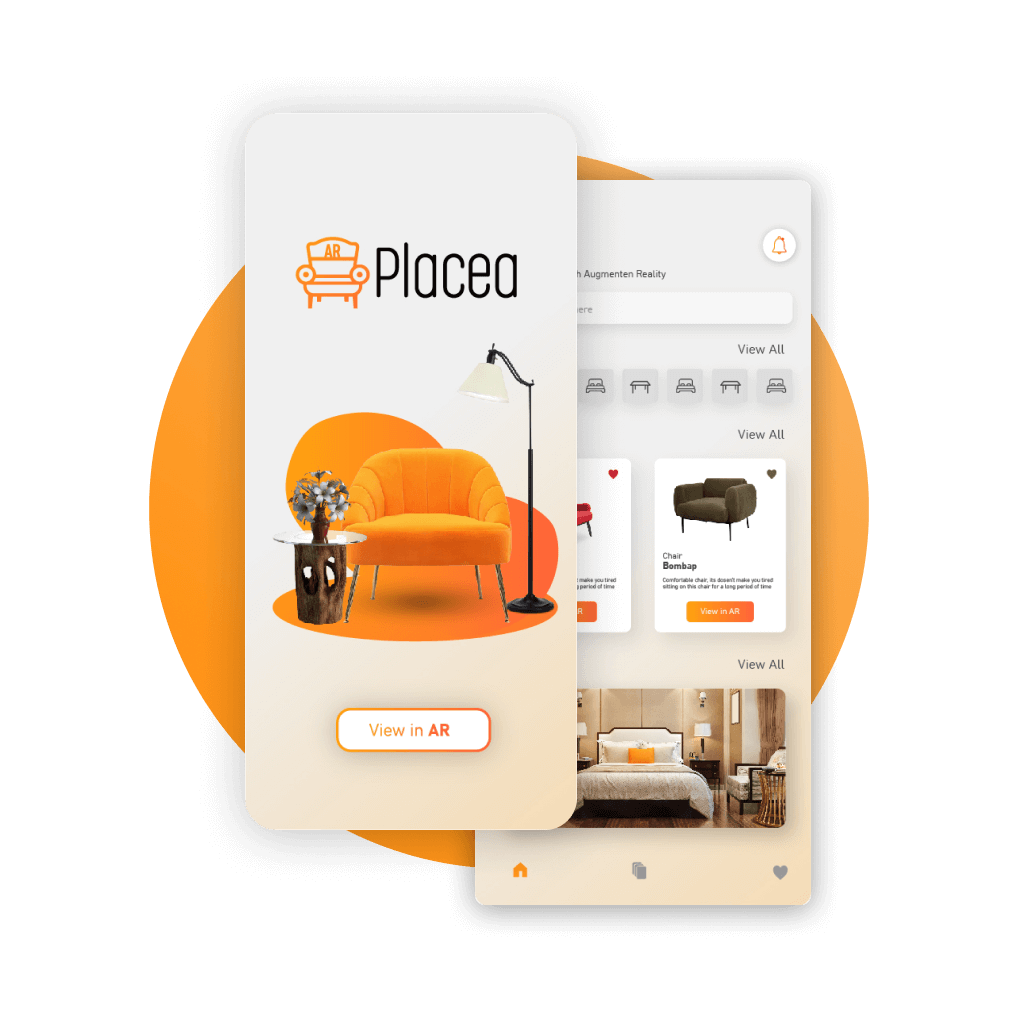
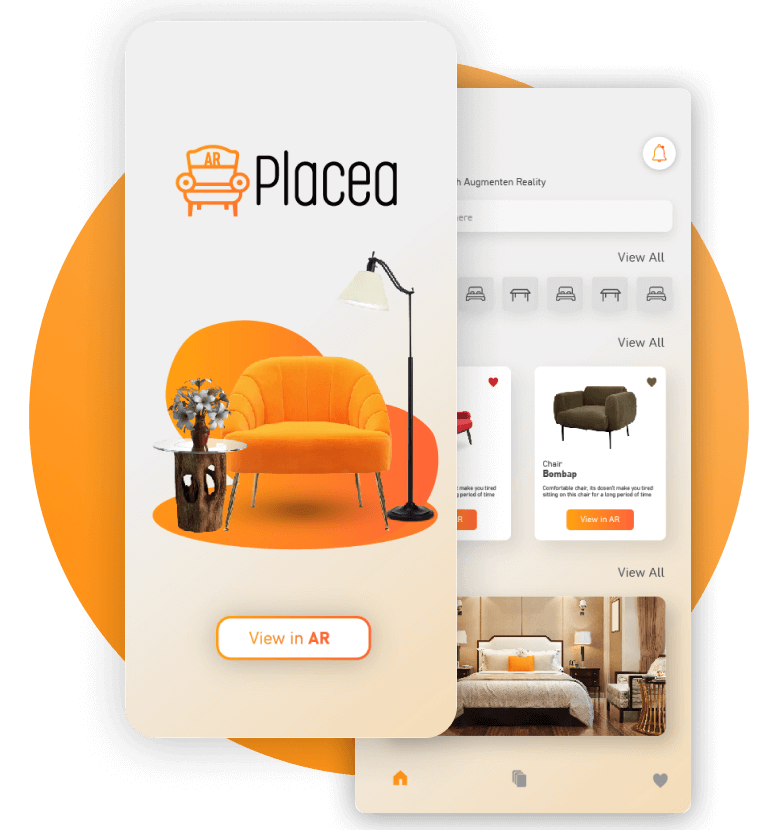
new changes

diff --git a/portfolio.html b/portfolio.html
@@ -435,9 +435,9 @@
 		</div>
 		<div class="row card-list">
 			<div class="col-lg-12 col-md-12 grid-sizer"></div>
-			<div class="col-lg-12 col-sm-12 single-card-item ar">
+			<div class="col-sm-12 single-card-item ar">
 				<div class="pbwide shadow bg-gradient1">
-					<div class="portfolio-item-info-tt">
+					<div class="portfolio-item-info-tt d-block ms-auto">
 						<div class="logowide mb20">
 							<img src="images/case-study/placea-logo.png" alt="logo" class="img-fluid">
 						</div>
@@ -454,11 +454,11 @@
 							<span class="circle"></span>
 						</a>
 					</div>
-					<div class="portfolio-wide-image">
+					<div class="portfolio-wide-image d-block me-auto">
 						<div class="img-wide-blocktt tilt-outer">
 							<div class="innerwidedevice tilt-inner" data-tilt="" data-tilt-max="4" data-tilt-speed="1000" data-tilt-perspective="2000">
 								<div class="">
-									<img src="images/case-study/placea-app.png" alt="img" class="img-fluid">
+									<img src="images/case-study/placea-app.png" alt="img" class="img-fluid" width="80%">
 								</div>
 							</div>
 						</div>

diff --git a/css/style.css b/css/style.css
@@ -7565,7 +7565,7 @@ a.smllbtnn {
 
 .img-wide-blocktt {
 	position: relative;
-	right: -80px;
+	/* right: -80px; */
 }
 
 .portfolio-item-info-tt h3 {
